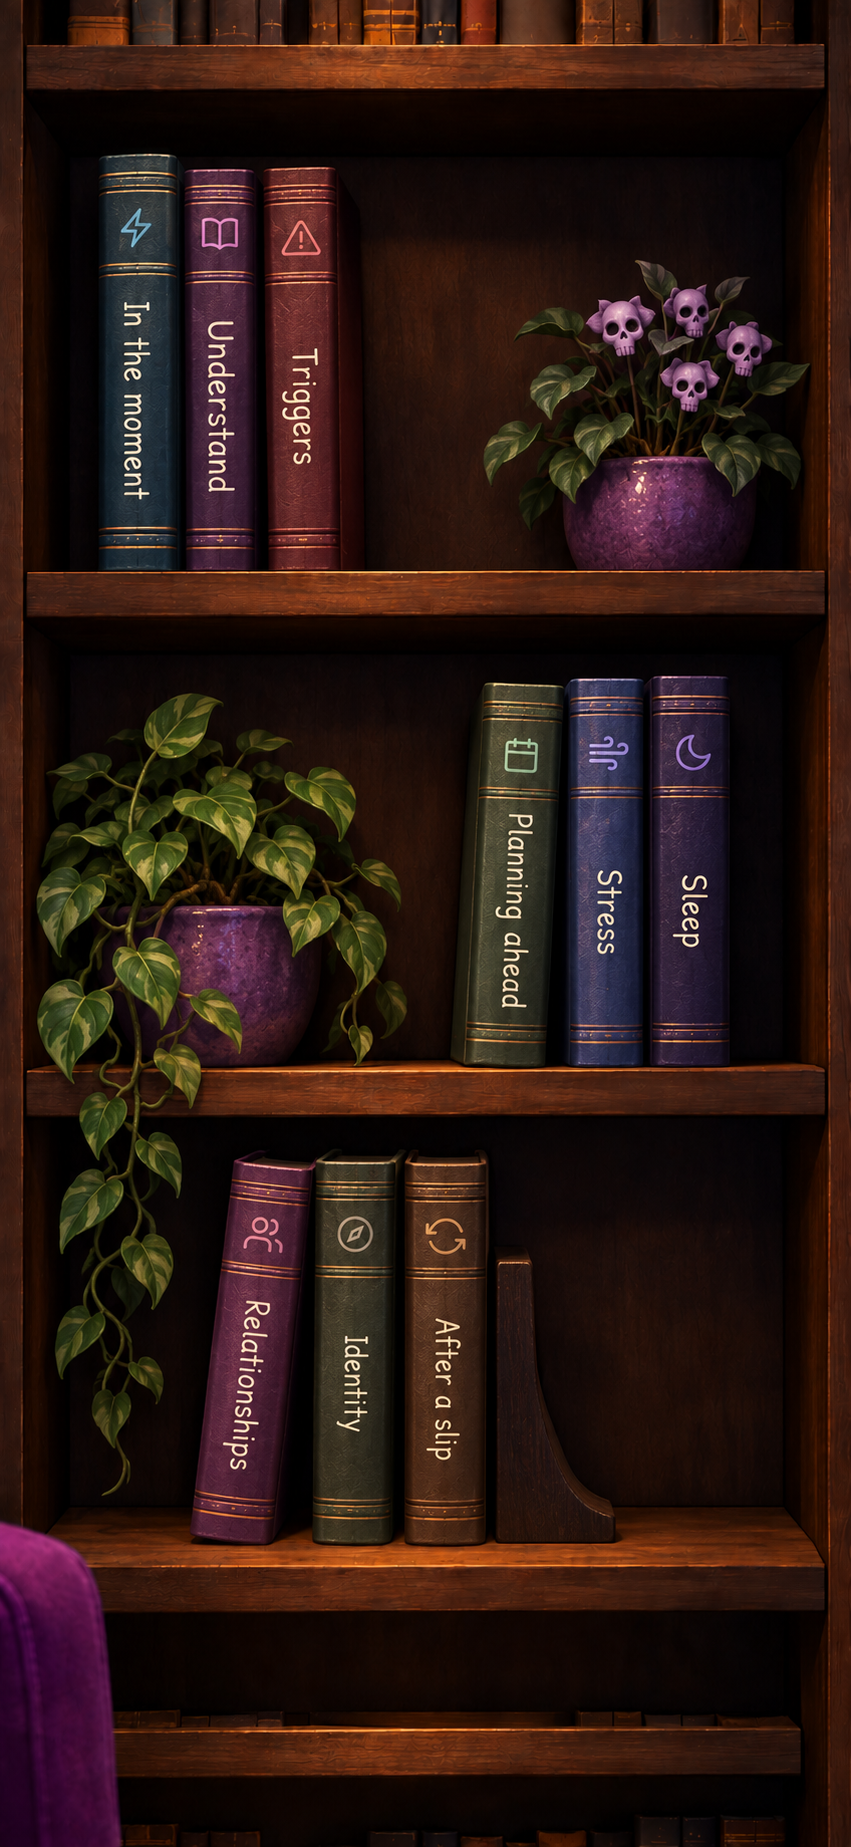
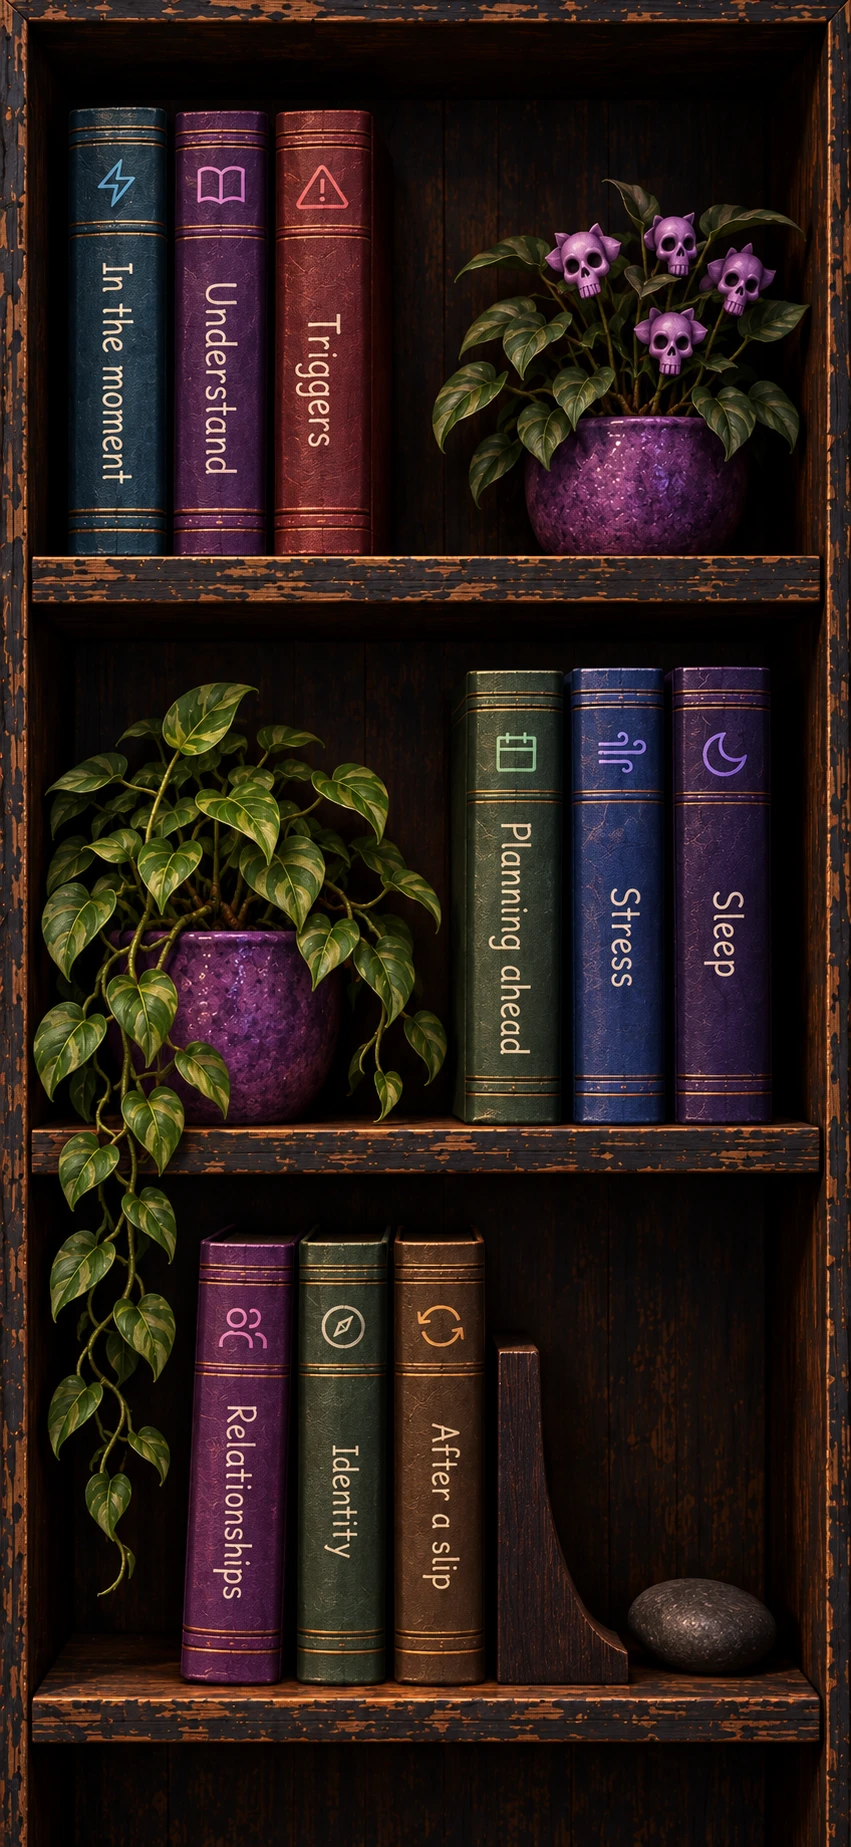
feat(hub): new reading-nook art + bookshelf close-up (first close-up!)
- Swap study_left to the redrawn reading nook (armchair + drawn bookshelf),
  clean same-size swap; existing hotspots kept.
- Add a 'reading_shelf' CLOSE-UP node (the bookshelf close-up art), reached by a
  new bookshelf ring in the study. Tapping a spine opens that book's existing
  reading pages (/reading/[cat]) — open spreads unchanged.
- Each spine is an invisible tap zone (plain + noRing), no ring per book; coords
  are first-pass estimates to nudge onto the spines in the editor.

Claude-Session: https://claude.ai/code/session_01KKhQMghLUspva6Yzs31jQ3

diff --git a/src/data/hubScene.ts b/src/data/hubScene.ts
@@ -407,6 +407,29 @@ export const HUB_NODES: Record<string, HubNode> = {
       { id: "sl_trusted", caption: "Trusted person", kind: "glow", tint: "purple", interaction: "object", haptic: "light", x: 0.296, y: 0.569, w: 0.162, h: 0.077, action: { kind: "route", route: "/profile/trusted" } },
       { id: "sl_coach", caption: "AI Coach", kind: "glow", tint: "purple", interaction: "object", haptic: "light", x: 0.632, y: 0.650, w: 0.184, h: 0.080, action: { kind: "route", route: "/support/coach" } },
       { id: "sl_door_room", caption: "Your room", kind: "glow", tint: "purple", interaction: "destination", haptic: "medium", x: 0.021, y: 0.424, w: 0.160, h: 0.077, action: { kind: "node", node: "me_room_right" } },
+      { id: "sl_bookshelf", caption: "The bookshelf", kind: "glow", tint: "purple", interaction: "destination", haptic: "medium", x: 0.37, y: 0.26, w: 0.31, h: 0.33, action: { kind: "node", node: "reading_shelf" } },
+    ],
+  },
+  // A CLOSE-UP of the bookshelf (reached from the study) — tap a spine to open
+  // that book's real pages (/reading/[cat], its open spread unchanged). Each
+  // book is an invisible tap zone (plain + noRing) so there's no ring per spine,
+  // just the drawn shelf. Coords are first-pass estimates — nudge onto the
+  // spines in the editor. Back returns to the reading nook.
+  reading_shelf: {
+    id: "reading_shelf", title: "The bookshelf",
+    image: require("../../assets/scenes/reading_shelf.png"),
+    imgW: 851, imgH: 1847, fit: "screen",
+    back: "study_left",
+    hotspots: [
+      { id: "rsh_in_the_moment", caption: "In the moment", kind: "plain", noRing: true, x: 0.075, y: 0.11, w: 0.10, h: 0.20, action: { kind: "route", route: "/reading/in-the-moment" } },
+      { id: "rsh_understand", caption: "Understand", kind: "plain", noRing: true, x: 0.175, y: 0.11, w: 0.10, h: 0.20, action: { kind: "route", route: "/reading/understand" } },
+      { id: "rsh_triggers", caption: "Triggers", kind: "plain", noRing: true, x: 0.275, y: 0.11, w: 0.10, h: 0.20, action: { kind: "route", route: "/reading/triggers" } },
+      { id: "rsh_planning", caption: "Planning ahead", kind: "plain", noRing: true, x: 0.52, y: 0.42, w: 0.10, h: 0.22, action: { kind: "route", route: "/reading/planning-ahead" } },
+      { id: "rsh_stress", caption: "Stress", kind: "plain", noRing: true, x: 0.63, y: 0.42, w: 0.09, h: 0.22, action: { kind: "route", route: "/reading/stress" } },
+      { id: "rsh_sleep", caption: "Sleep", kind: "plain", noRing: true, x: 0.72, y: 0.42, w: 0.10, h: 0.22, action: { kind: "route", route: "/reading/sleep" } },
+      { id: "rsh_relationships", caption: "Relationships", kind: "plain", noRing: true, x: 0.20, y: 0.69, w: 0.10, h: 0.22, action: { kind: "route", route: "/reading/relationships" } },
+      { id: "rsh_identity", caption: "Identity", kind: "plain", noRing: true, x: 0.31, y: 0.69, w: 0.09, h: 0.22, action: { kind: "route", route: "/reading/identity" } },
+      { id: "rsh_after_a_slip", caption: "After a slip", kind: "plain", noRing: true, x: 0.40, y: 0.69, w: 0.11, h: 0.22, action: { kind: "route", route: "/reading/after-a-slip" } },
     ],
   },
   study_front: {
